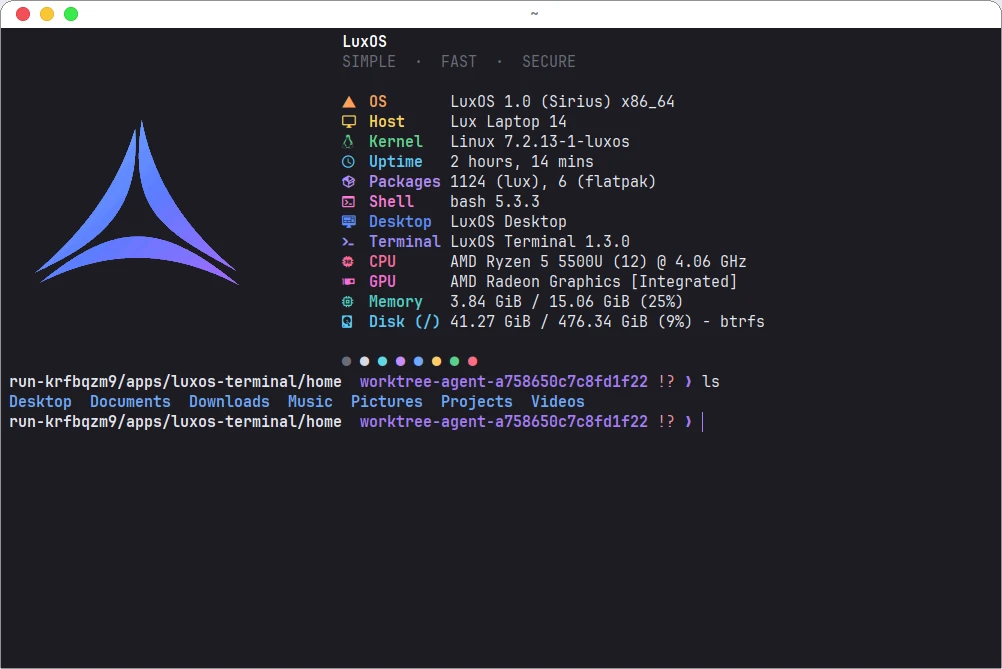
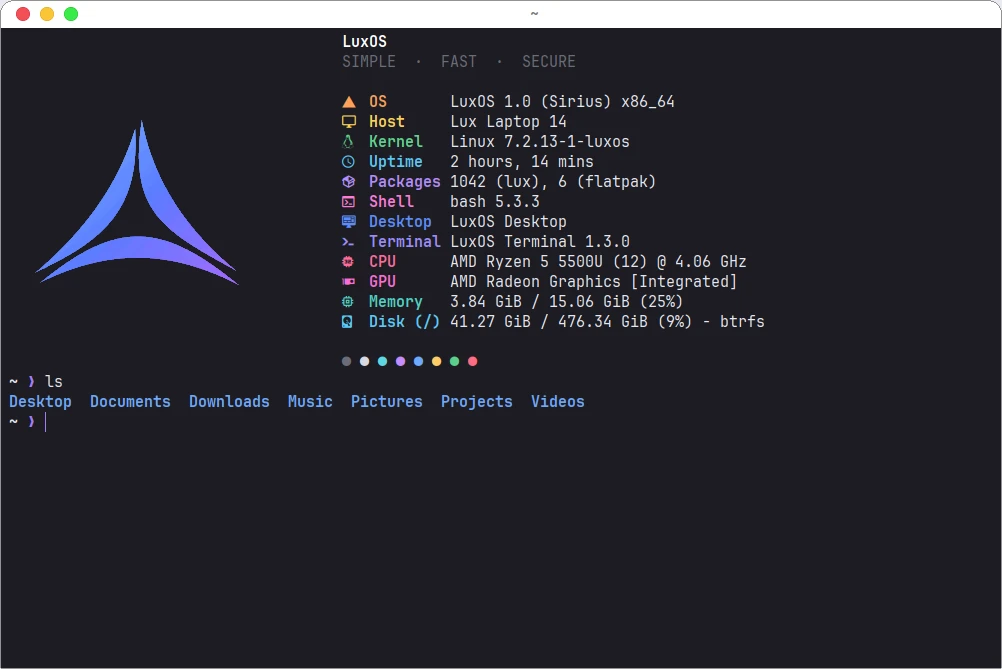
Store screenshots: no repo path or worktree branch in the Terminal prompt (GIT_CEILING_DIRECTORIES at the per-app temp folder, so git/starship no longer find the LuxOS checkout around out/; prompt is a plain ~ again), reshot luxos-terminal, luxos-printers ("Network scanner (eSCL/AirScan)" instead of

Changed region(s): [[0.0, 0.5381, 0.6497, 0.6577], [0.4641, 0.2392, 0.495, 0.299], [0.6806, 0.568, 0.7116, 0.5979]]

diff --git a/scripts/store-screenshots/shoot.py b/scripts/store-screenshots/shoot.py
@@ -126,7 +126,11 @@ class Session:
                          "XDG_CACHE_HOME": os.path.join(self.home, ".cache"),
                          "XDG_STATE_HOME": os.path.join(self.home, ".local", "state"),
                          "LUXOS_I18N_DIR": os.path.join(PACKAGES, "luxos-i18n", "files"),
-                         "PYTHONDONTWRITEBYTECODE": "1"})
+                         "PYTHONDONTWRITEBYTECODE": "1",
+                         # docasny HOME lezi v out/ uvnitr pracovni kopie LuxOS: bez stropu by git (i vyzva
+                         # starship, Lux Code, Textovy editor) nasel nas repozitar a ukazal jeho vetev a cestu
+                         # k HOME vuci nemu; ukazkove repozitare pod HOME (napr. ~/Projects/...) zustavaji videt
+                         "GIT_CEILING_DIRECTORIES": self.tmp})
         self.out_dir = os.path.join(out_dir, app_id)
         self.shots = []
         self.procs = []

diff --git a/scripts/store-screenshots/apps/luxos-terminal.py b/scripts/store-screenshots/apps/luxos-terminal.py
@@ -14,7 +14,7 @@ DEMO_INFO = [
     ("\U000f0379  Host", "38;2;255;210;90", "Lux Laptop 14"),
     ("  Kernel", "38;2;95;211;141", "Linux 7.2.13-1-luxos"),
     ("\U000f0150  Uptime", "38;2;90;200;250", "2 hours, 14 mins"),
-    ("\U000f03d6  Packages", "38;2;180;140;255", "1124 (lux), 6 (flatpak)"),
+    ("\U000f03d6  Packages", "38;2;180;140;255", "1042 (lux), 6 (flatpak)"),
     ("\U000f018d  Shell", "38;2;255;122;217", "bash 5.3.3"),
     ("\U000f09e8  Desktop", "38;2;91;140;255", "LuxOS Desktop"),
     ("\U000f07b7  Terminal", "38;2;155;140;255", "LuxOS Terminal 1.3.0"),
